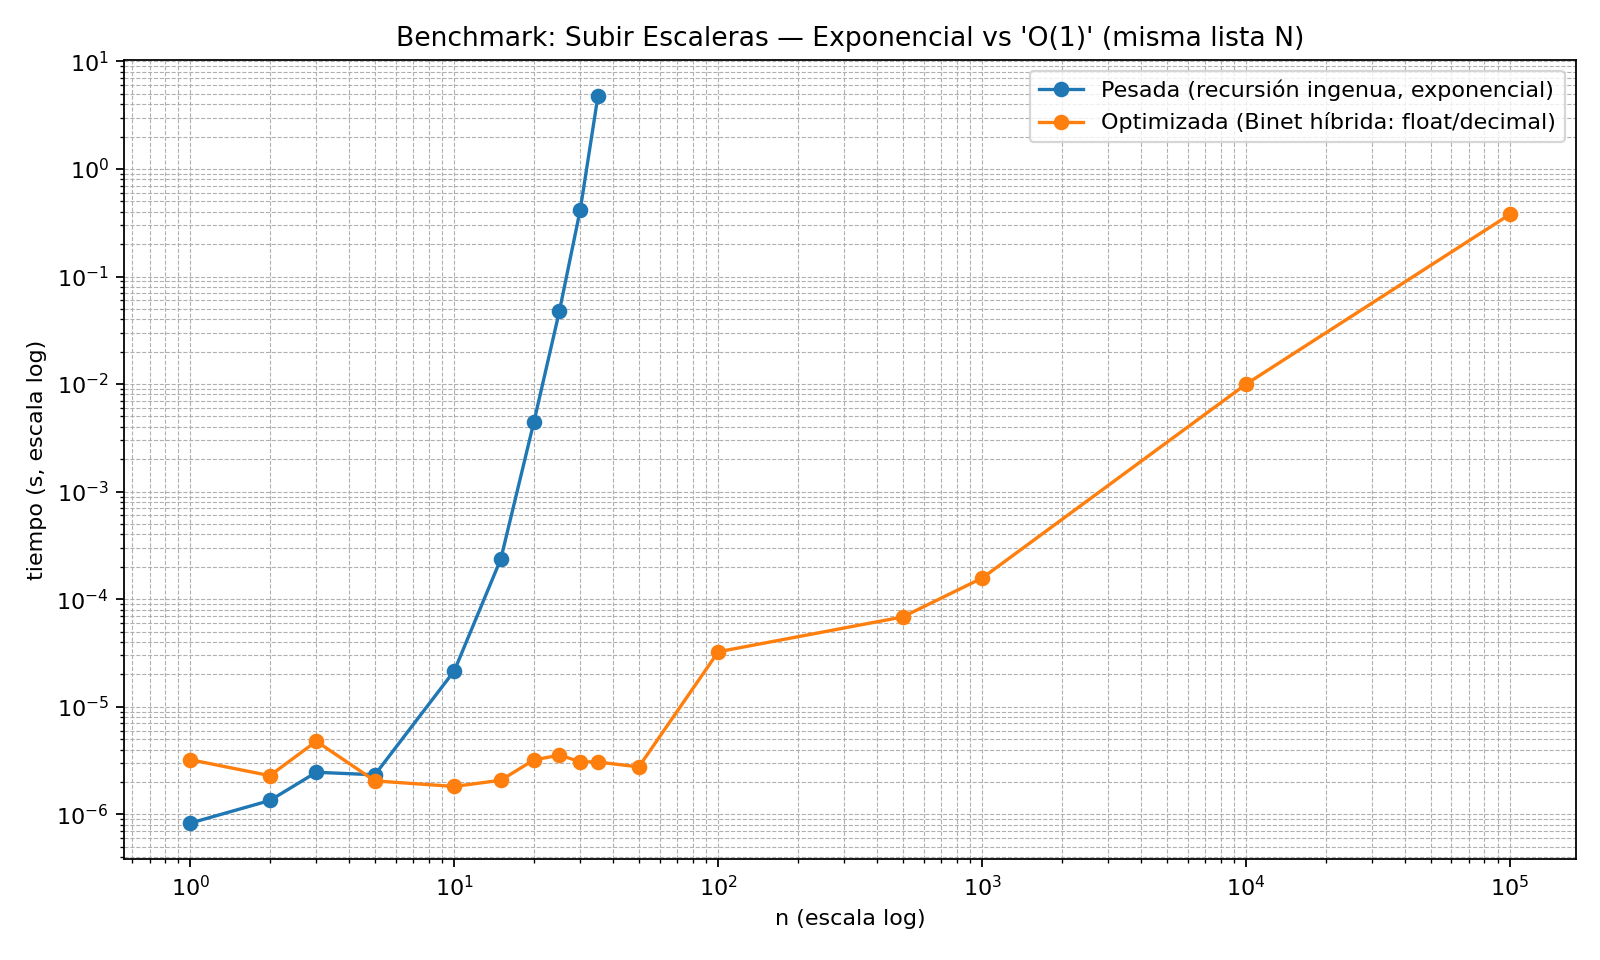
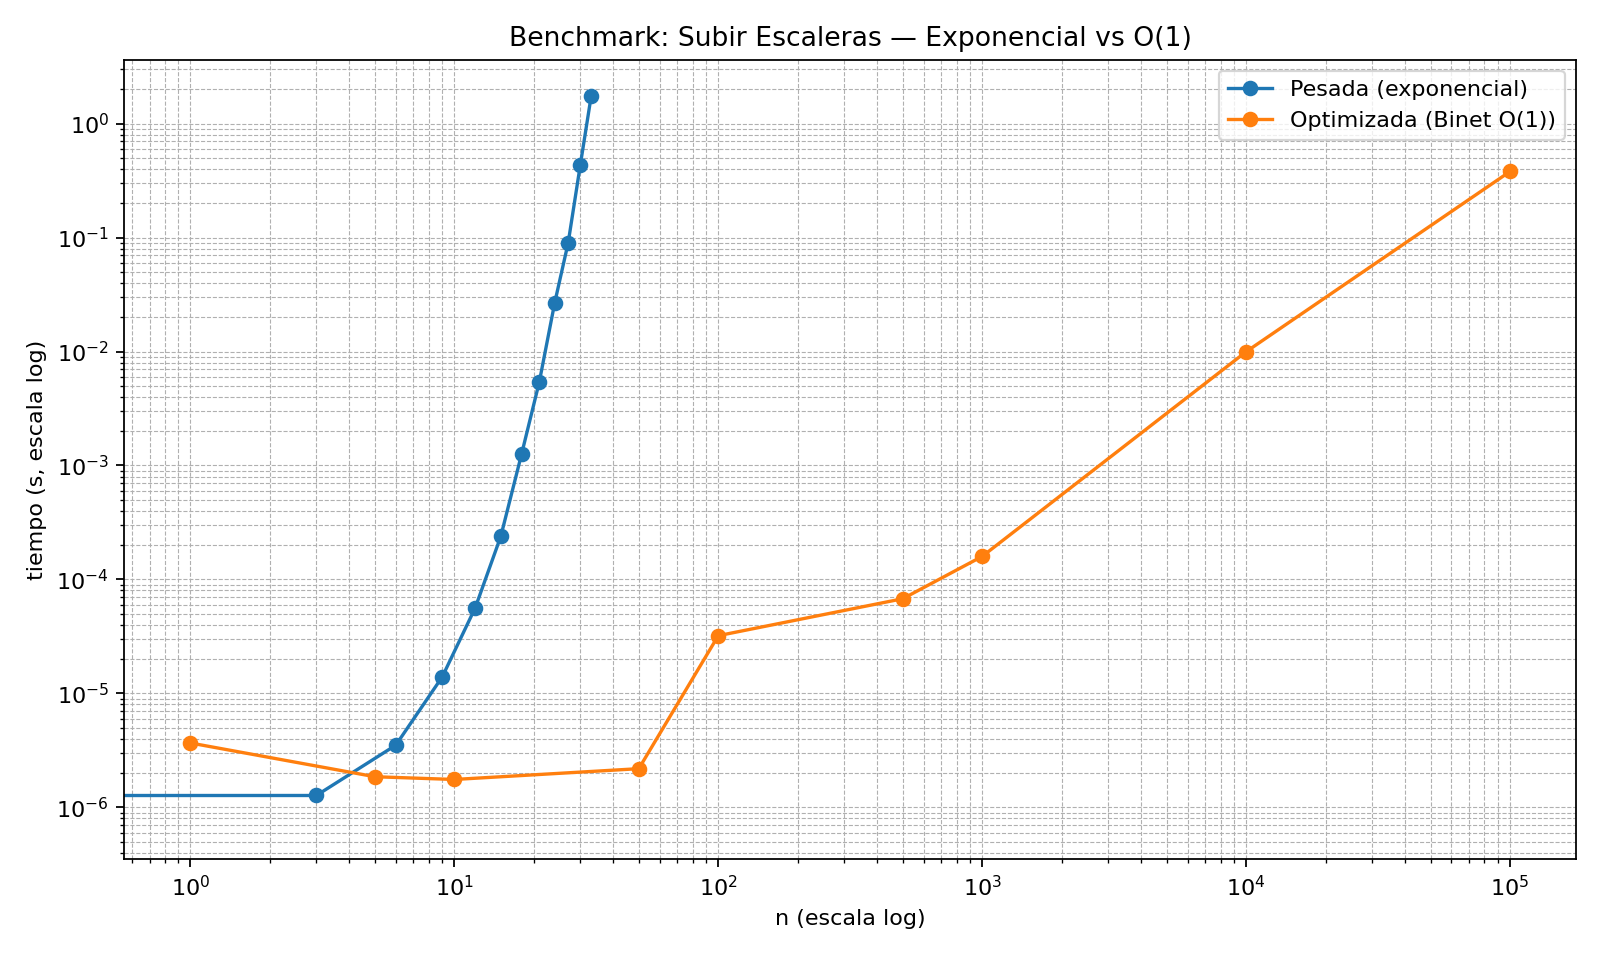
Conteo de formas de n escaleras

diff --git a/Climbing Stairs/benchmark.py b/Climbing Stairs/benchmark.py
@@ -3,7 +3,6 @@ from __future__ import annotations
 import csv
 import os
 import timeit
-from typing import Optional
 
 import matplotlib.pyplot as plt
 
@@ -14,134 +13,77 @@ from implementacion_optimizada import formas_escalera_o1
 RESULTS_DIR = "results"
 os.makedirs(RESULTS_DIR, exist_ok=True)
 
-# Misma lista para ambos algoritmos
-N_VALUES = [1, 2, 3, 5, 10, 15, 20, 25, 30, 35, 50, 100, 500, 1000, 10_000, 100_000]
+# Para el exponencial usamos n pequeño (si no, se vuelve eterno)
+N_EXPONENCIAL = list(range(0, 36, 3))  # 0,3,6,...,33
+
+# Para O(1) podemos usar n muy grande
+N_O1 = [1, 5, 10, 50, 100, 500, 1000, 10_000, 100_000]
 
 REPEATS = 7
 NUMBER = 1
 
-# Límite para no “matar” el benchmark con el exponencial
-EXP_MAX_N = 35
 
-
-def avg_time(callable_stmt) -> float:
-    times = timeit.repeat(callable_stmt, repeat=REPEATS, number=NUMBER)
+def avg_time(stmt_callable) -> float:
+    times = timeit.repeat(stmt_callable, repeat=REPEATS, number=NUMBER)
     return sum(times) / len(times)
-
-
-def time_maybe(func, n: int) -> Optional[float]:
-    """Mide tiempo o devuelve None si se decide omitir (skip)."""
-    if func is formas_escalera_exponencial and n > EXP_MAX_N:
-        return None
-    return avg_time(lambda: func(n))
-
-
-def write_summary(path: str) -> None:
-    text = f"""Benchmark: Subir Escaleras (W(n) = F(n+1))
-
-Algoritmos comparados:
-- pesada_exponencial: recursión ingenua sin memoización
-  Tiempo: Θ(φ^n) (exponencial), 
-  Espacio: O(n) por recursión
-- optimizada_o1: fórmula cerrada (Binet) con modo híbrido (float/decimal)
-  "O(1)" en número de pasos matemáticos, pero con decimal el costo real depende
-  de la precisión (tamaño del número).
-
-Configuración:
-- N_VALUES = {N_VALUES}
-- REPEATS  = {REPEATS}
-- NUMBER   = {NUMBER}
-- EXP_MAX_N = {EXP_MAX_N}  (para n > EXP_MAX_N el exponencial se marca como skip)
-
-Archivos generados:
-- results/benchmark.csv
-- results/benchmark.png (log-log)
-- results/benchmark_small.png (zoom hasta EXP_MAX_N)
-"""
-    with open(path, "w", encoding="utf-8") as f:
-        f.write(text)
-
-
-def plot_loglog(rows, path: str, title: str, limit_x: int | None = None) -> None:
-    plt.figure(figsize=(10, 6))
-
-    def plot_series(algo: str, label: str):
-        xs = [n for (a, n, t) in rows if a == algo and t is not None]
-        ys = [t for (a, _, t) in rows if a == algo and t is not None]
-        if limit_x is not None:
-            xs, ys = zip(*[(x, y) for (x, y) in zip(xs, ys) if x <= limit_x]) if xs else ([], [])
-        if xs:
-            plt.plot(xs, ys, marker="o", label=label)
-
-    plot_series("pesada_exponencial", "Pesada (recursión ingenua, exponencial)")
-    plot_series("optimizada_o1", "Optimizada (Binet híbrida: float/decimal)")
-
-    plt.xscale("log")
-    plt.yscale("log")
-    plt.xlabel("n (escala log)")
-    plt.ylabel("tiempo (s, escala log)")
-    plt.title(title)
-    plt.grid(True, which="both", linestyle="--", linewidth=0.5)
-    plt.legend()
-    plt.tight_layout()
-    plt.savefig(path, dpi=160)
 
 
 def main():
     rows = []
 
-    print("=== Benchmark: Subir Escaleras ===")
-    print(f"Nota: el exponencial se omite (skip) para n > {EXP_MAX_N}.")
-    print("Nota 2: la versión optimizada usa float (n pequeño) y decimal (n grande).\n")
+    print("=== Benchmark: Subir Escaleras (W(n)) ===")
+    print("W(n) = #formas de subir n escalones con pasos {1,2}\n")
 
-    for n in N_VALUES:
-        t_exp = time_maybe(formas_escalera_exponencial, n)
-        t_o1 = time_maybe(formas_escalera_o1, n)
+    # 1) Exponencial
+    print("[1/2] Midiendo implementación pesada (exponencial)...")
+    for n in N_EXPONENCIAL:
+        t = avg_time(lambda: formas_escalera_exponencial(n))
+        rows.append(("pesada_exponencial", n, t))
+        print(f"n={n:>6} | {t*1e3:>10.3f} ms")
 
-        # Validación de correctitud cuando ambos existen
-        if t_exp is not None:
-            assert formas_escalera_exponencial(n) == formas_escalera_o1(n)
+    # 2) O(1) (Binet+Decimal)
+    print("\n[2/2] Midiendo implementación optimizada (O(1) con Binet+decimal)...")
+    for n in N_O1:
+        # Precision dinámica dentro de la función
+        t = avg_time(lambda: formas_escalera_o1(n))
+        rows.append(("optimizada_o1_binet", n, t))
+        print(f"n={n:>6} | {t*1e6:>10.3f} us")
 
-        rows.append(("pesada_exponencial", n, t_exp))
-        rows.append(("optimizada_o1", n, t_o1))
-
-        exp_str = "skip" if t_exp is None else f"{t_exp*1e3:.3f} ms"
-        o1_str = f"{t_o1*1e6:.3f} us" if t_o1 is not None else "ERR"
-        print(f"n={n:>7} | exp: {exp_str:>12} | opt: {o1_str:>12}")
-
-    # CSV (guardamos vacío como string "skip")
+    # CSV
     csv_path = os.path.join(RESULTS_DIR, "benchmark.csv")
     with open(csv_path, "w", newline="", encoding="utf-8") as f:
         w = csv.writer(f)
         w.writerow(["algoritmo", "n", "tiempo_s"])
-        for algo, n, t in rows:
-            w.writerow([algo, n, "skip" if t is None else f"{t:.12f}"])
+        w.writerows(rows)
     print(f"\nCSV guardado en: {csv_path}")
 
-    # Resumen
-    summary_path = os.path.join(RESULTS_DIR, "benchmark_summary.txt")
-    write_summary(summary_path)
-    print(f"Resumen guardado en: {summary_path}")
-
-    # Plot principal (log-log) con todos los puntos medidos
+    # Plot (separamos series)
     plot_path = os.path.join(RESULTS_DIR, "benchmark.png")
-    plot_loglog(
-        rows,
-        plot_path,
-        title="Benchmark: Subir Escaleras — Exponencial vs 'O(1)' (misma lista N)",
-        limit_x=None,
-    )
-    print(f"Gráfica guardada en: {plot_path}")
 
-    # Plot zoom: solo hasta EXP_MAX_N (para comparar ambos sin escalas tan extremas)
-    plot_small_path = os.path.join(RESULTS_DIR, "benchmark_small.png")
-    plot_loglog(
-        rows,
-        plot_small_path,
-        title=f"Benchmark (zoom): n ≤ {EXP_MAX_N} — Exponencial vs 'O(1)'",
-        limit_x=EXP_MAX_N,
-    )
-    print(f"Gráfica (zoom) guardada en: {plot_small_path}")
+    def series(algo: str):
+        xs = [n for (a, n, _) in rows if a == algo]
+        ys = [t for (a, _, t) in rows if a == algo]
+        return xs, ys
+
+    x1, y1 = series("pesada_exponencial")
+    x2, y2 = series("optimizada_o1_binet")
+
+    plt.figure(figsize=(10, 6))
+    if x1:
+        plt.plot(x1, y1, marker="o", label="Pesada (exponencial)")
+    if x2:
+        plt.plot(x2, y2, marker="o", label="Optimizada (Binet O(1))")
+
+    plt.xscale("log")
+    plt.yscale("log")
+    plt.xlabel("n (escala log)")
+    plt.ylabel("tiempo (s, escala log)")
+    plt.title("Benchmark: Subir Escaleras — Exponencial vs O(1)")
+    plt.grid(True, which="both", linestyle="--", linewidth=0.5)
+    plt.legend()
+    plt.tight_layout()
+    plt.savefig(plot_path, dpi=160)
+    print(f"Gráfica guardada en: {plot_path}")
 
 
 if __name__ == "__main__":

diff --git a/Climbing Stairs/implementacion_pesada.py b/Climbing Stairs/implementacion_pesada.py
@@ -18,9 +18,21 @@ Nota:
   contrastar con una solución de tiempo constante (fórmula cerrada) o cercana.
 """
 
+import sys
+
 def formas_escalera_exponencial(n: int) -> int:
     if n < 0:
         raise ValueError("n debe ser >= 0")
     if n <= 1:
         return 1
     return formas_escalera_exponencial(n - 1) + formas_escalera_exponencial(n - 2)
+
+
+def main() -> None:
+  n = int(sys.argv[1]) if len(sys.argv) > 1 else 8
+  resultado = formas_escalera_exponencial(n)
+  print(f"Para {n} escalones hay {resultado} formas de subirlos.")
+
+
+if __name__ == "__main__":
+  main()

diff --git a/Climbing Stairs/implementacion_optimizada.py b/Climbing Stairs/implementacion_optimizada.py
@@ -23,6 +23,7 @@ Estrategia híbrida:
 from __future__ import annotations
 import math
 import decimal
+import sys
 
 SQRT5_F = math.sqrt(5.0)
 PHI_F = (1.0 + SQRT5_F) / 2.0
@@ -82,3 +83,13 @@ def formas_escalera_o1(n: int, precision: int | None = None) -> int:
         precision = int(k * 0.209) + 25
 
     return _fib_binet_decimal(k, precision=precision)
+
+
+def main() -> None:
+  n = int(sys.argv[1]) if len(sys.argv) > 1 else 4
+  resultado = formas_escalera_o1(n)
+  print(f"Para {n} escalones hay {resultado} formas de subirlos.")
+
+
+if __name__ == "__main__":
+  main()
